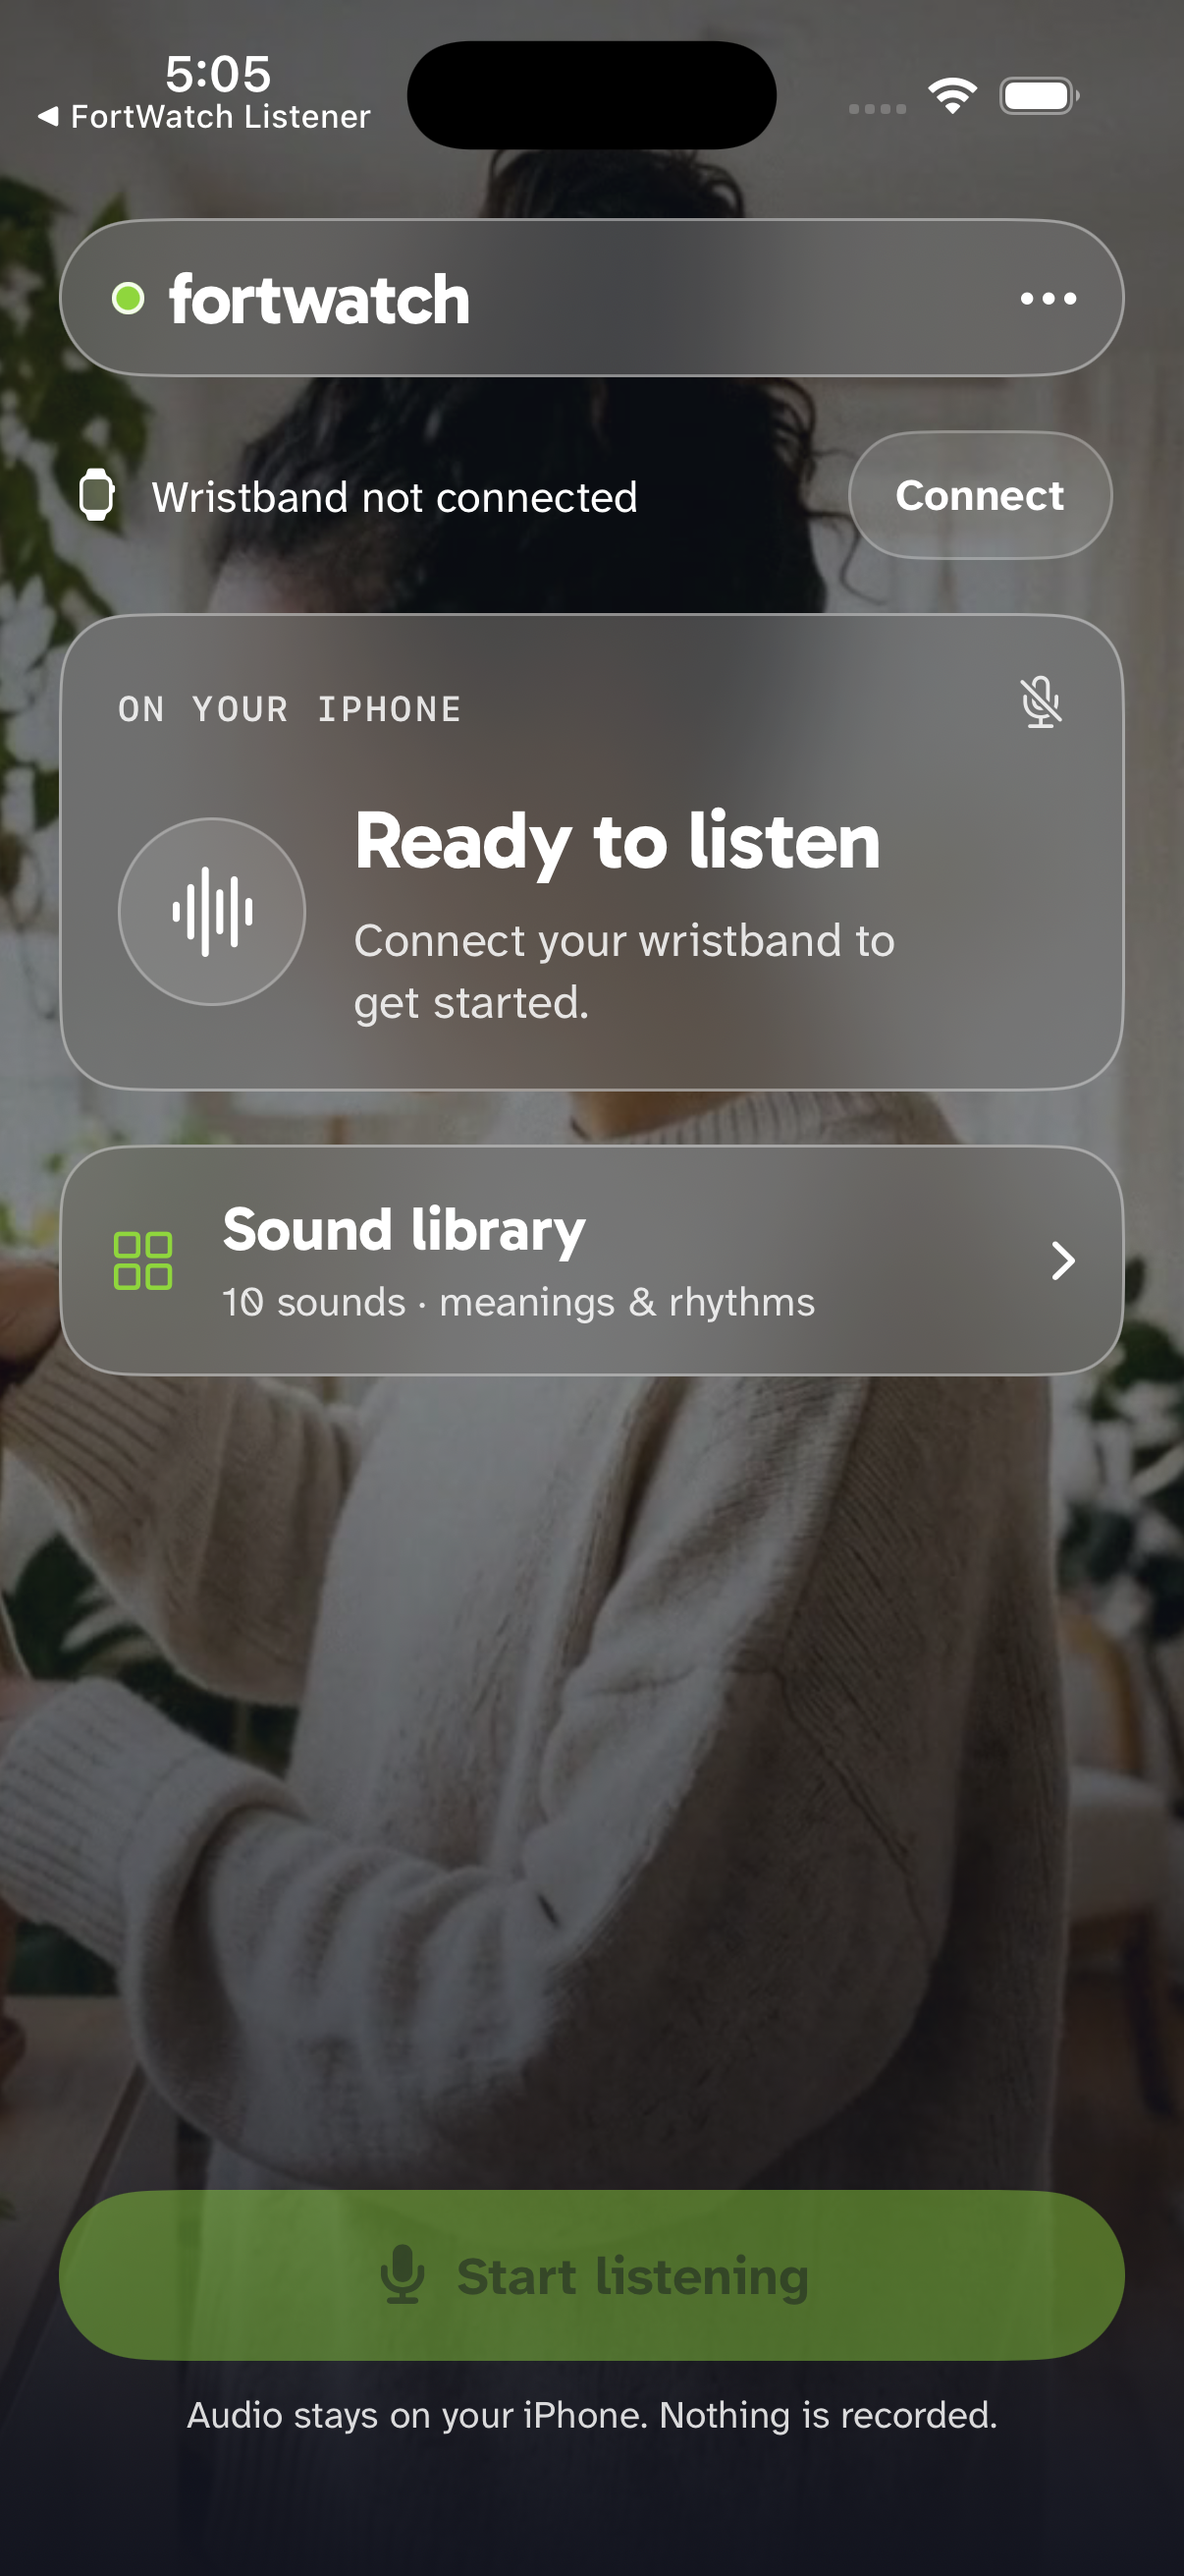
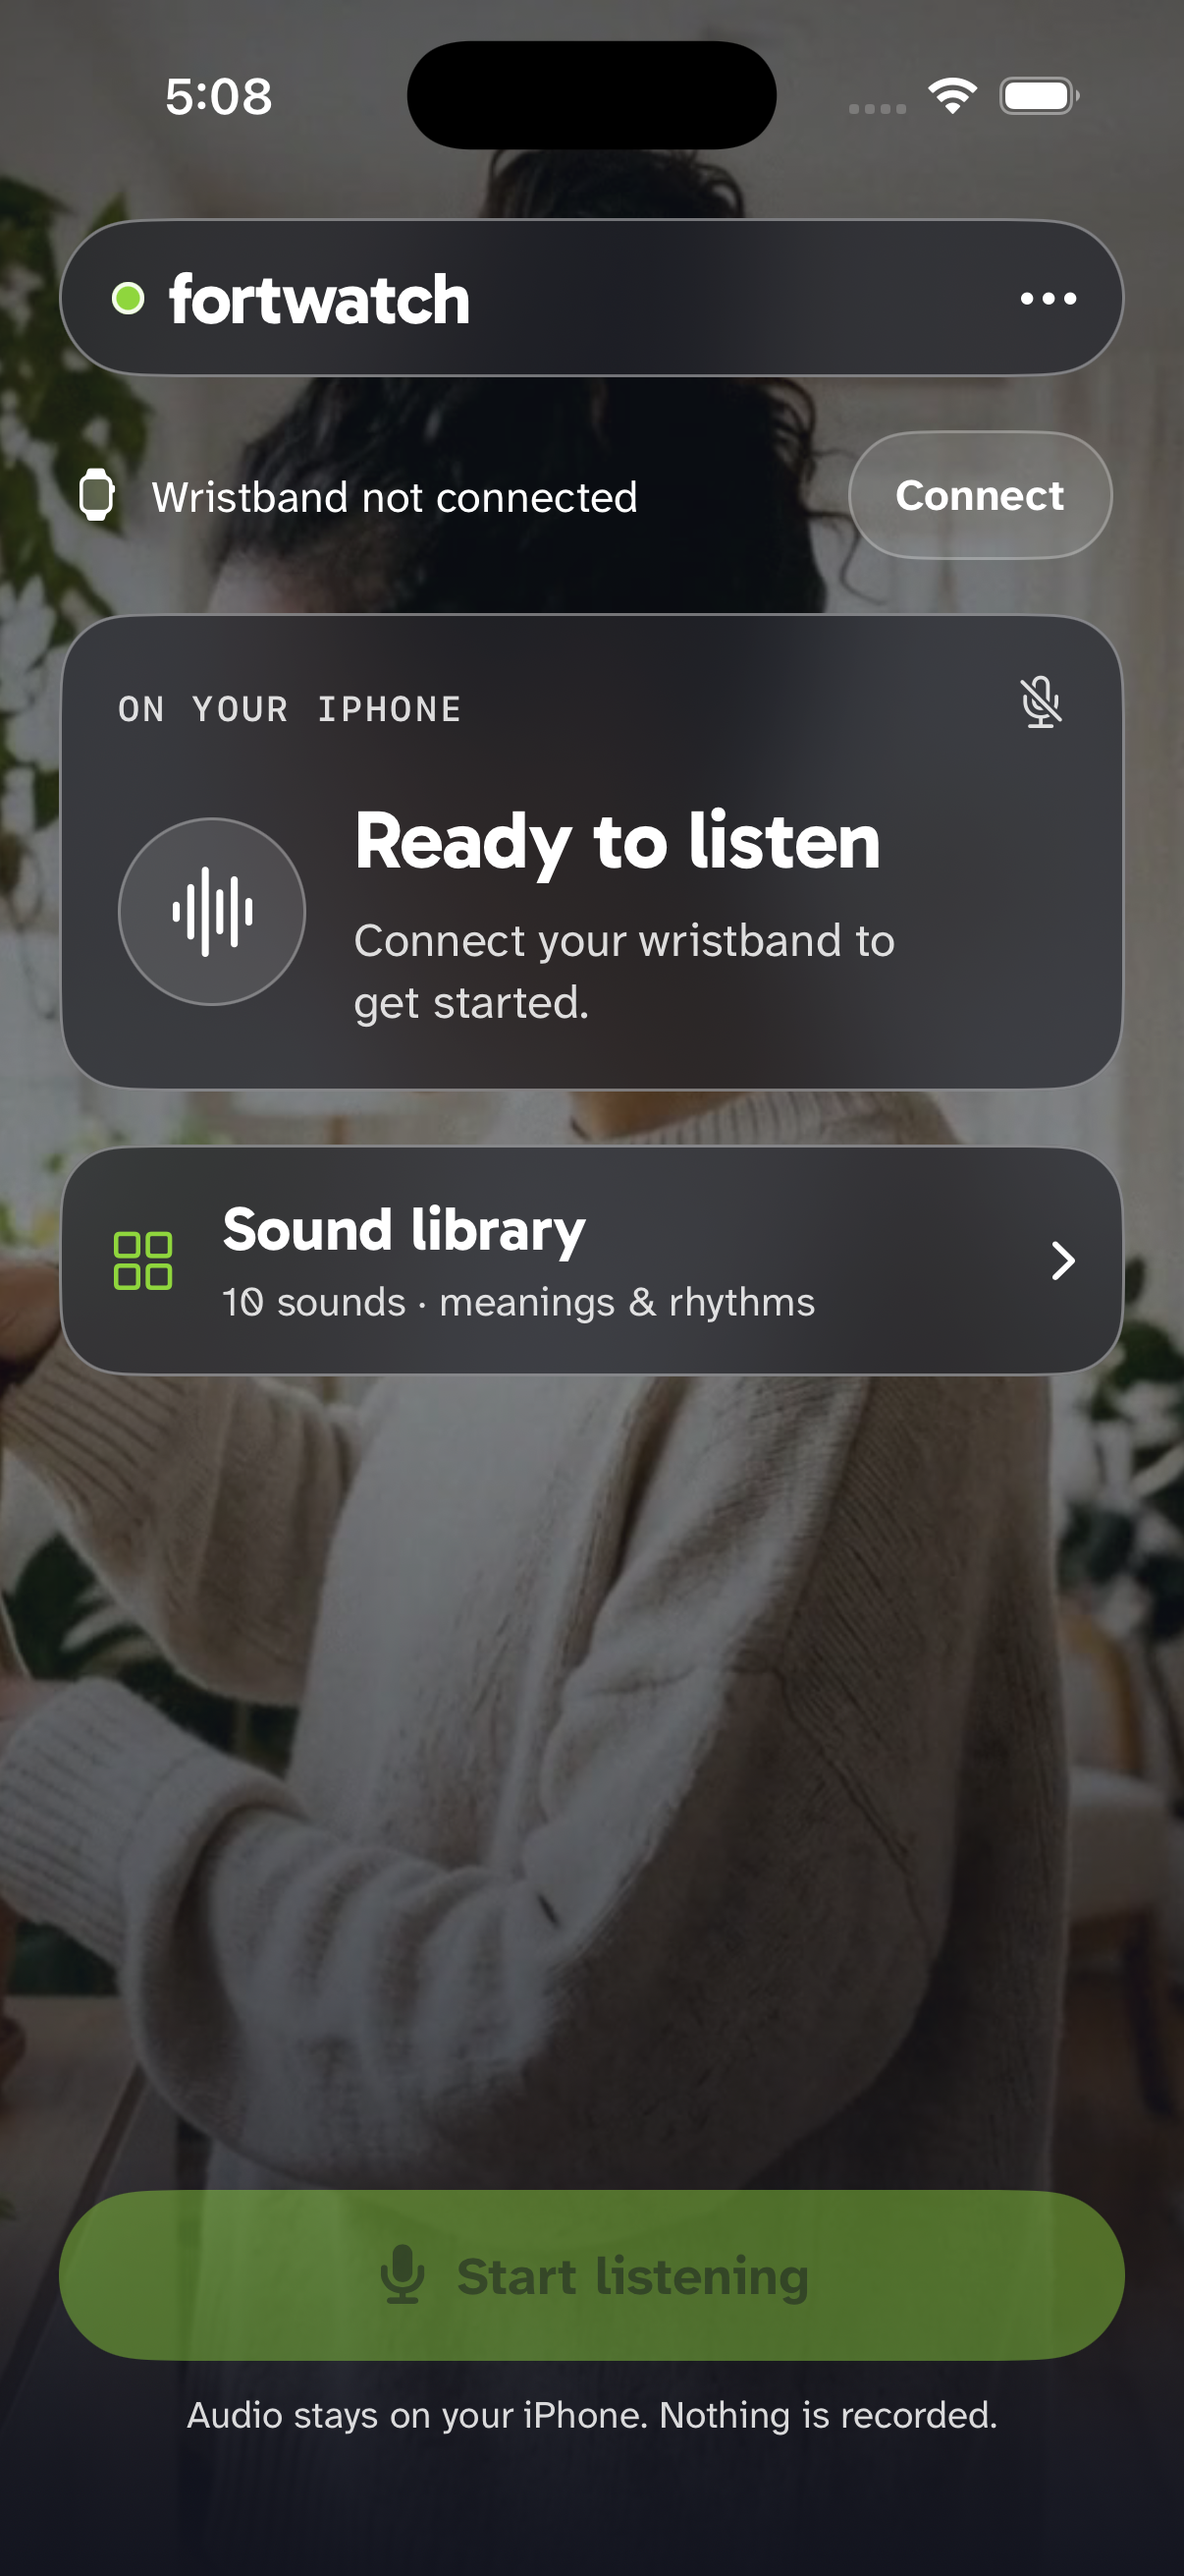
Improve text contrast over photographic surfaces

Changed region(s): [[0.0307, 0.2162, 0.9511, 0.5561], [0.0307, 0.0, 0.9511, 0.1545]]

diff --git a/ios/FortWatchListener/FortWatchListenerApp.swift b/ios/FortWatchListener/FortWatchListenerApp.swift
@@ -281,7 +281,7 @@ private struct FrostedSurface: ViewModifier {
                     .background(.ultraThinMaterial, in: .rect(cornerRadius: radius))
             } else {
                 content
-                    .background(.white.opacity(0.14), in: .rect(cornerRadius: radius))
+                    .background(ListenerStyle.ink.opacity(0.45), in: .rect(cornerRadius: radius))
                     .background(.ultraThinMaterial, in: .rect(cornerRadius: radius))
             }
         }

diff --git a/docs/design/SOUND-IDENTITY.md b/docs/design/SOUND-IDENTITY.md
@@ -36,6 +36,7 @@ golpe azul, timbre violeta, teléfono gris azulado, perro marrón y voz verde.
 | Diez categorías con identidad y ritmo propios | PASS: catálogo/selector/hápticos coinciden; símbolos y textos distintos |
 | Los 22 alias existen y se asignan a su categoría | PASS: clasificador Apple instalado y pruebas de selección aisladas |
 | Contraste de paleta | PASS: blanco sobre los diez colores ≥6:1; señal sobre tinta ≥8.7:1 |
+| Biblioteca real | PASS: abre desde inicio; árbol accesible contiene las diez categorías y Test deshabilitado sin conexión |
 | Datos recientes sin dirección prestada | PASS: 4 pruebas específicas de presentación |
 | Suite iOS | PASS: 47 tests, cero fallos |
 | Pantallas normales de los diez sonidos | PASS: renders nativos aislados, etiquetados como simulación, inspeccionados |
@@ -65,3 +66,10 @@ Evidencia de esta revisión: `/tmp/fortwatch-identity-update/identity-tests.xcre
 ![Diez tarjetas de la pulsera, render de software con datos sintéticos](wristband-sound-identities.png)
 
 ![Diez identidades de la app, vistas simuladas](ios/sound-identities.png)
+
+La revisión de píxeles detectó texto secundario con contraste 3.91–4.17:1 en
+zonas de las tarjetas neutras. Se cambió su capa blanca por tinta al 45%; las
+mismas cuatro muestras quedaron entre 8.45 y 11.53:1. No es una auditoría de
+cada píxel de la pantalla. La corrección compiló para simulador/iPhone y se
+instaló (`contrast-iphone-install.log`). La captura actual de la biblioteca es
+de la app real del simulador, sin detecciones ni conexión BLE.

diff --git a/docs/design/ios/README.md b/docs/design/ios/README.md
@@ -41,6 +41,6 @@ Estado funcional y pruebas físicas: [identidad de sonidos](../SOUND-IDENTITY.md
 
 ![Vista de diseño con KNOCK simulado, no una medición](knock-preview.png)
 
-![Guía de ritmos, vista de diseño sin pruebas físicas](vibration-guide-preview.png)
+![Biblioteca de la app real en simulador, sin conexión con pulsera](vibration-guide-preview.png)
 
 ![Los diez tipos en vistas simuladas de la interfaz](sound-identities.png)
